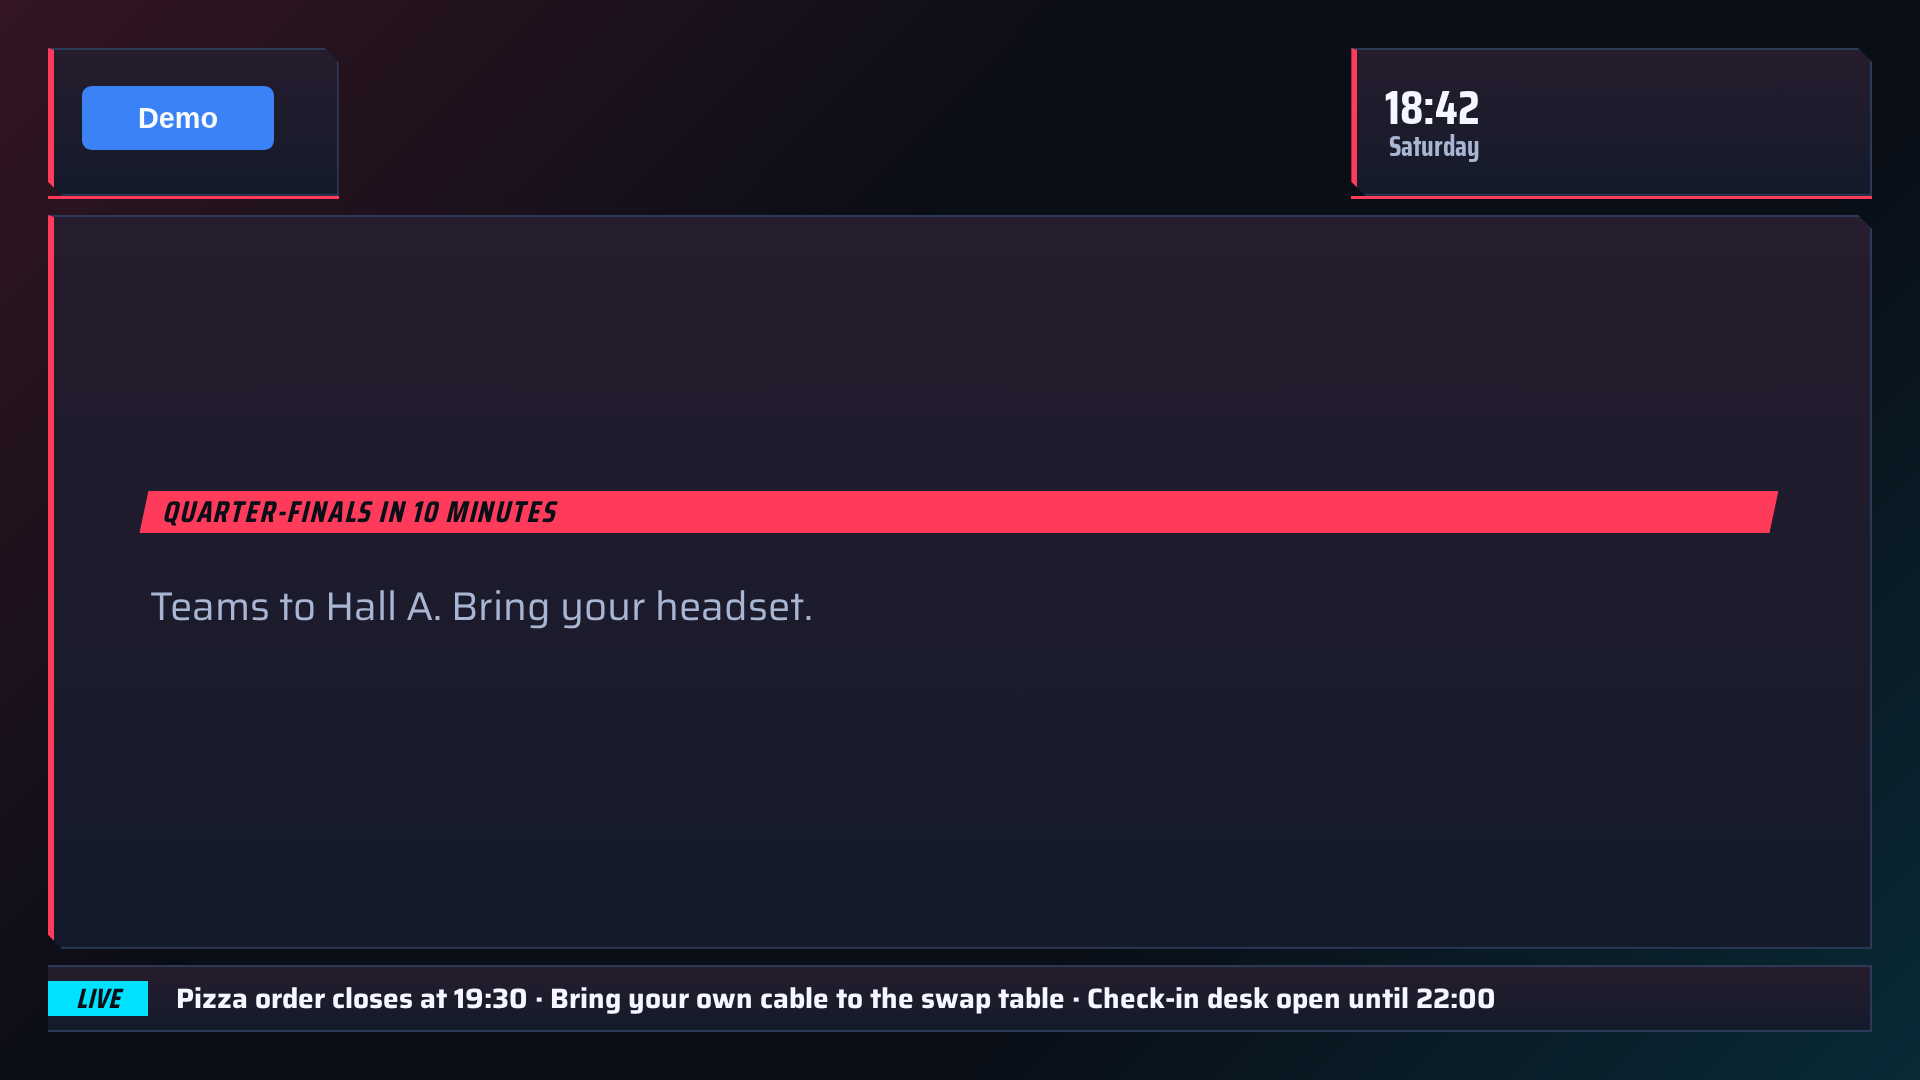
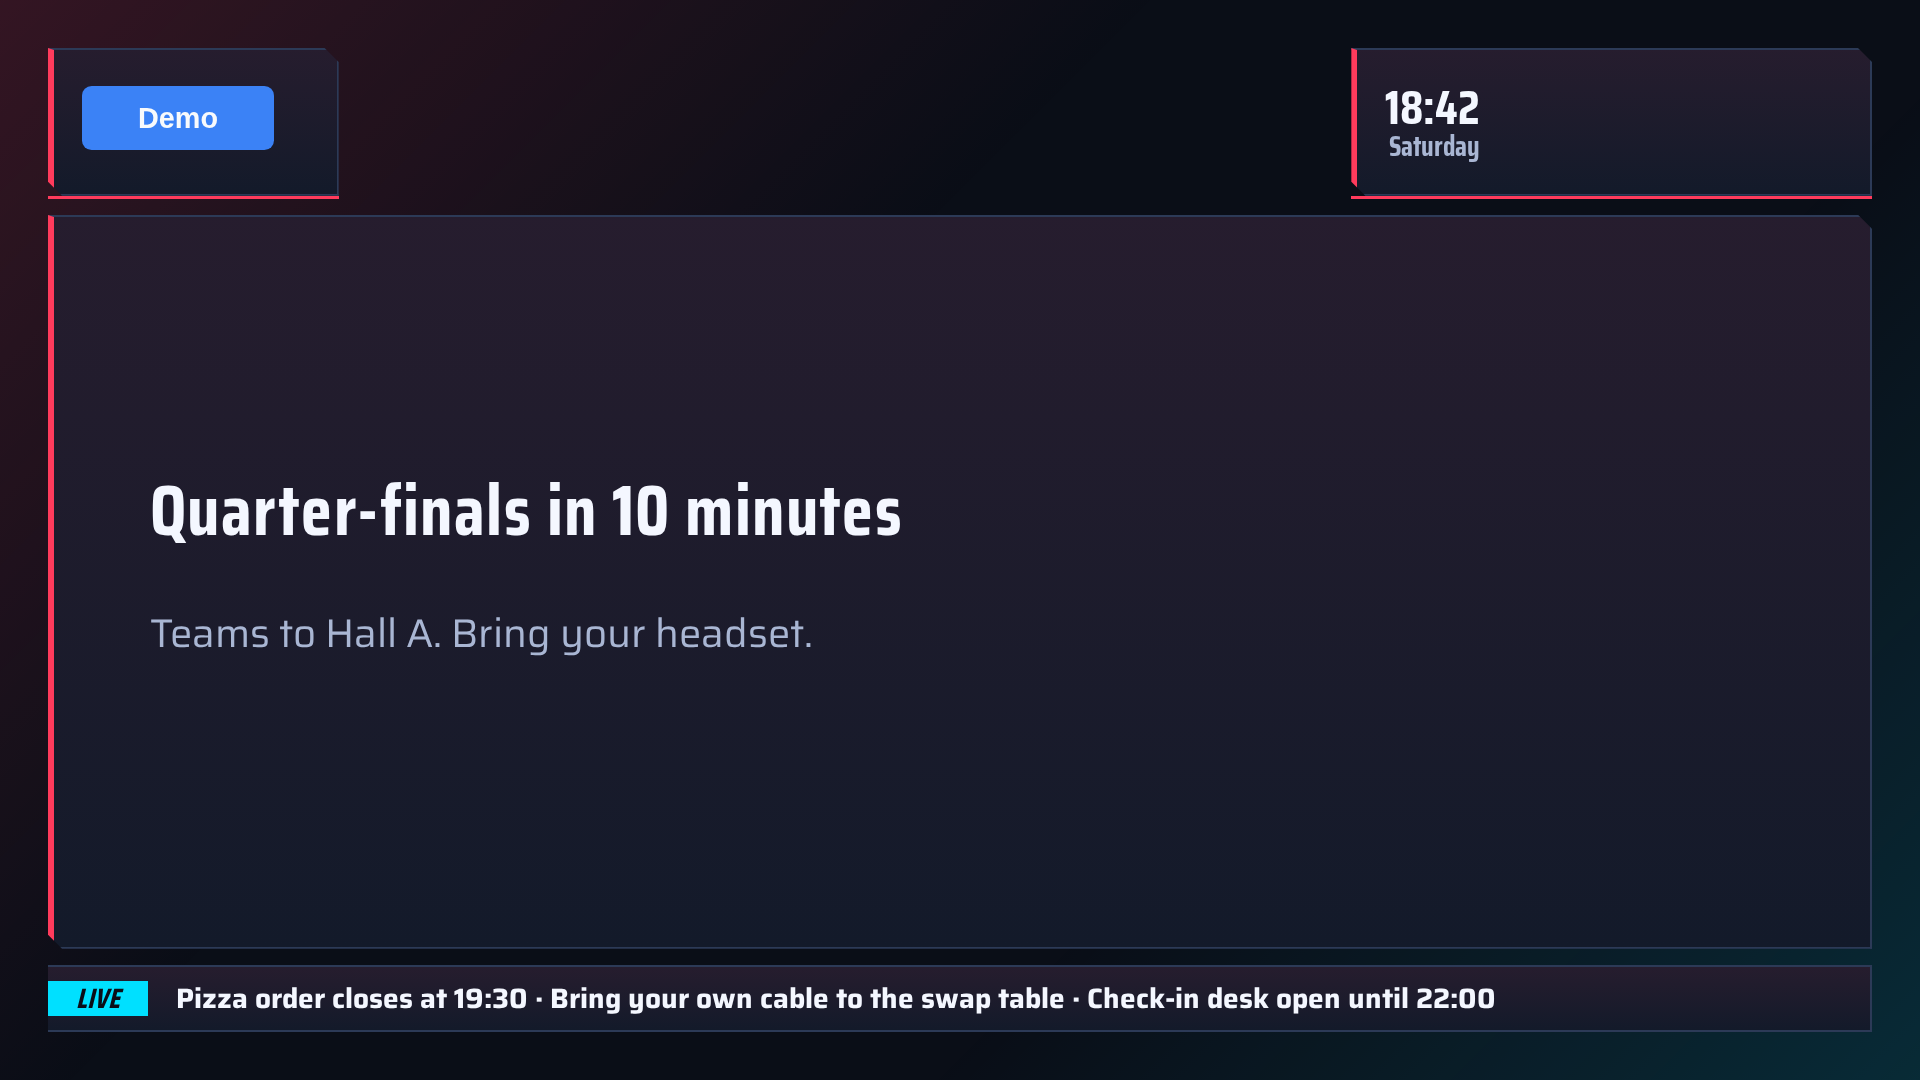
docs(design): themes pack: announcement headlines keep the platform's sizes in every look

Changed region(s): [[0.0625, 0.4278, 0.9375, 0.5194], [0.0625, 0.55, 0.4375, 0.6111]]

diff --git a/docs/design/themes/looks/esports.css b/docs/design/themes/looks/esports.css
@@ -10,8 +10,9 @@
   background: linear-gradient(180deg, color-mix(in srgb, var(--canccu-color-surface) 92%, var(--canccu-color-primary)), var(--canccu-color-surface));
 }
 
-/* Titles as skewed tabs: the tab is skewed, its letters are not. */
-.canccu-surface--screen .canccu-widget__title {
+/* Titles as skewed tabs: the tab is skewed, its letters are not. An announcement's headline keeps
+   the platform's sizes and floors across a hall (#780), as in Level up. */
+.canccu-surface--screen .canccu-widget:not(.canccu-widget--announcement) .canccu-widget__title {
   position: relative;
   display: inline-block;
   margin: 0 0 10px -6px;
@@ -25,7 +26,7 @@
   color: var(--canccu-color-primary-text);
   isolation: isolate;
 }
-.canccu-surface--screen .canccu-widget__title::before {
+.canccu-surface--screen .canccu-widget:not(.canccu-widget--announcement) .canccu-widget__title::before {
   content: "";
   position: absolute;
   inset: 0;

diff --git a/docs/design/themes/looks/arcade.css b/docs/design/themes/looks/arcade.css
@@ -44,7 +44,7 @@
     8px 8px 0 0 color-mix(in srgb, var(--canccu-color-primary) 70%, var(--canccu-color-background));
 }
 
-.canccu-surface--screen .canccu-widget__title {
+.canccu-surface--screen .canccu-widget:not(.canccu-widget--announcement) .canccu-widget__title {
   font-family: var(--canccu-font-heading);
   font-size: 1.875rem;
   letter-spacing: 0.04em;

diff --git a/docs/design/themes/looks/synthwave.css b/docs/design/themes/looks/synthwave.css
@@ -66,7 +66,7 @@
     0 0 28px color-mix(in srgb, var(--canccu-color-primary) 35%, transparent);
 }
 
-.canccu-surface--screen .canccu-widget__title {
+.canccu-surface--screen .canccu-widget:not(.canccu-widget--announcement) .canccu-widget__title {
   font-family: var(--canccu-font-heading);
   font-size: 1.875rem;
   letter-spacing: 0.08em;
